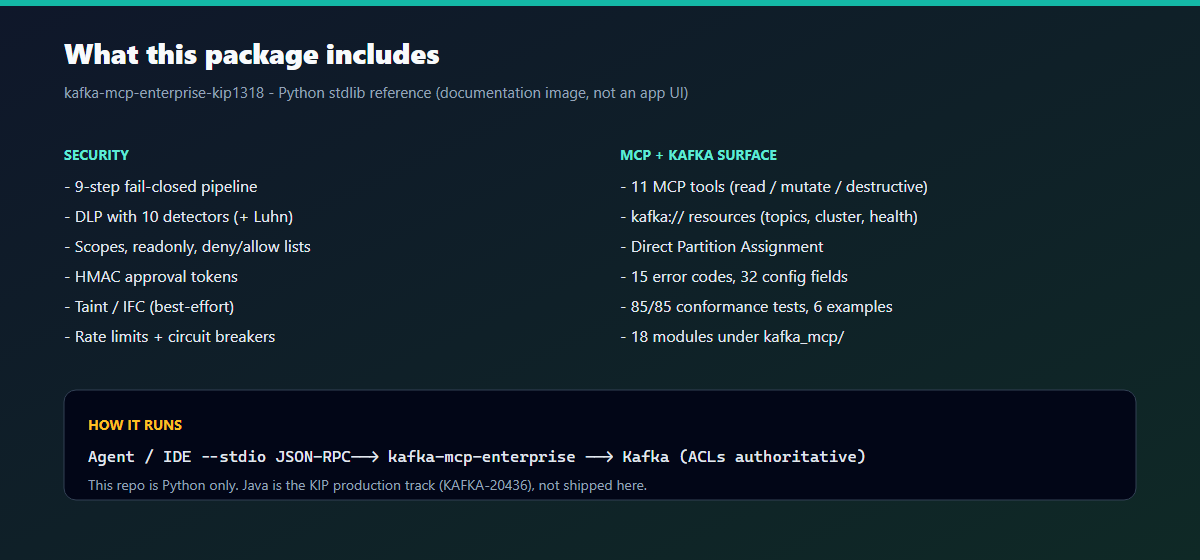
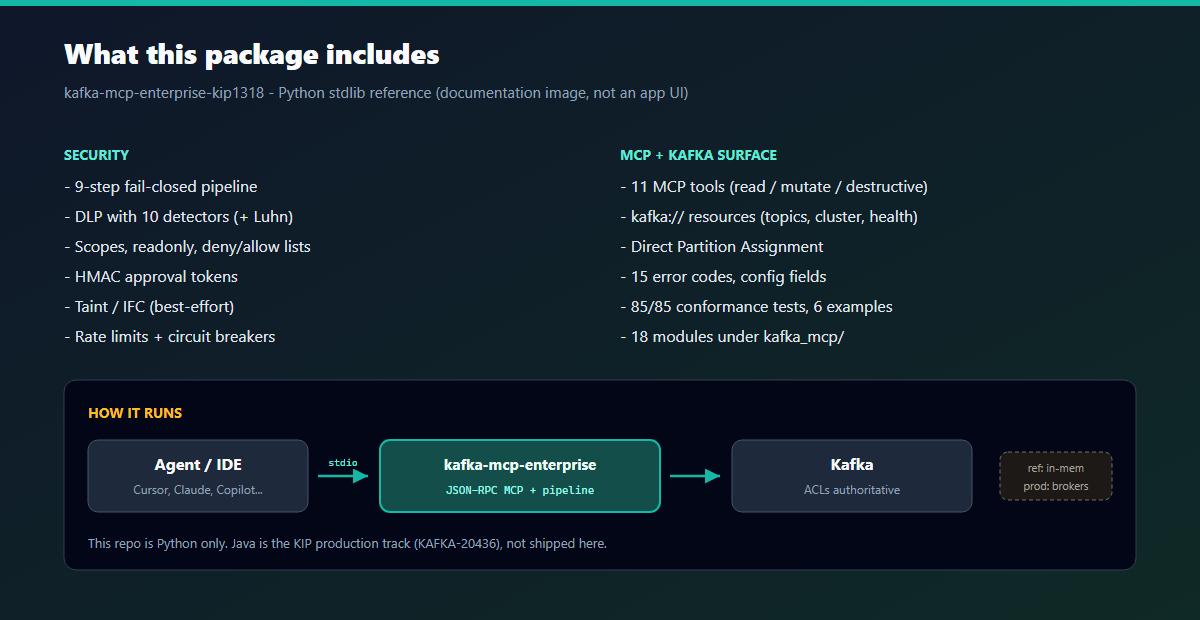
Align PyPI package name with Trusted Publisher as kafka-mcp-enterprise.
Matches the renamed GitHub repo and pending publisher so OIDC publish can create the project; also refresh README Mermaid diagrams and install links.

diff --git a/kafka_mcp/observability.py b/kafka_mcp/observability.py
@@ -6,7 +6,7 @@ OpenTelemetry in the official module.
 
 Python users who want OTel can install the optional extra::
 
-    pip install kafka-mcp-enterprise-kip1318[otel]
+    pip install kafka-mcp-enterprise[otel]
 
 Then pass a custom tracer/meter into your host, or wrap ``KafkaMcpServer.handle``.
 This module never imports OpenTelemetry unless it is installed.

diff --git a/README.md b/README.md
@@ -1,7 +1,7 @@
 # Kafka MCP Enterprise Server
 
-[![PyPI](https://img.shields.io/pypi/v/kafka-mcp-enterprise-kip1318.svg)](https://pypi.org/project/kafka-mcp-enterprise-kip1318/)
-[![Python](https://img.shields.io/pypi/pyversions/kafka-mcp-enterprise-kip1318.svg)](https://pypi.org/project/kafka-mcp-enterprise-kip1318/)
+[![PyPI](https://img.shields.io/pypi/v/kafka-mcp-enterprise.svg)](https://pypi.org/project/kafka-mcp-enterprise/)
+[![Python](https://img.shields.io/pypi/pyversions/kafka-mcp-enterprise.svg)](https://pypi.org/project/kafka-mcp-enterprise/)
 [![License](https://img.shields.io/badge/license-Apache%202.0-blue.svg)](LICENSE)
 
 ![Kafka MCP Enterprise — product image](doc/assets/kafka-mcp-banner.png)
@@ -11,16 +11,16 @@
 ### PyPI
 
 ```bash
-pip install kafka-mcp-enterprise-kip1318
+pip install kafka-mcp-enterprise
 echo {"jsonrpc":"2.0","id":1,"method":"tools/list"} | kafka-mcp-enterprise
 ```
 
 | | |
 |---|---|
-| **Package** | [`kafka-mcp-enterprise-kip1318`](https://pypi.org/project/kafka-mcp-enterprise-kip1318/) |
+| **Package** | [`kafka-mcp-enterprise`](https://pypi.org/project/kafka-mcp-enterprise/) |
 | **CLI** | `kafka-mcp-enterprise` |
 | **Import** | `import kafka_mcp` |
-| **Optional** | `pip install kafka-mcp-enterprise-kip1318[otel]` |
+| **Optional** | `pip install kafka-mcp-enterprise[otel]` |
 | **Publish** | Tag `v*` → [`.github/workflows/publish.yml`](.github/workflows/publish.yml) (Trusted Publishing / OIDC — see [doc/publishing.md](doc/publishing.md)) |
 
 ### Agents & skills (Cursor, Kiro, ChatGPT, Gemini, Copilot, …)
@@ -58,6 +58,30 @@ Broker **ACLs remain authoritative**. Guardrails here *complement* them; they ne
 ![Kafka MCP Enterprise — what’s included](doc/assets/kafka-mcp-features.png)
 
 *Documentation product image (not a web UI).* Checklist of what this Python stdio reference implements: fail-closed pipeline, DLP, 11 tools, `kafka://` resources, tests, and examples.
+
+### How it runs
+
+```mermaid
+flowchart LR
+  Agent["Agent / IDE"]
+  MCP["kafka-mcp-enterprise<br/>stdio JSON-RPC + pipeline"]
+  Kafka["Kafka<br/>ACLs authoritative"]
+  Agent -->|"MCP tools/call"| MCP
+  MCP -->|"Admin / Produce / Consume"| Kafka
+```
+
+**This repo:** Python stdlib reference (in-memory Kafka for tests). **KIP production track:** Java (`tools/mcp-server` / [KAFKA-20436](https://issues.apache.org/jira/browse/KAFKA-20436)), not shipped here.
+
+### Fail-closed pipeline (overview)
+
+```mermaid
+flowchart TB
+  A["1 Auth"] --> B["2 Deny-list"] --> C["3 Allow / readonly"]
+  C --> D["4 Scope"] --> E["5 Policy"] --> F["6 Taint / IFC"]
+  F --> G["7 Approval"] --> H["8 Rate limit"] --> I["9 Breaker execute"]
+```
+
+Full detail: [doc/security-controls.md](doc/security-controls.md) · architecture: [doc/architecture.md](doc/architecture.md).
 
 ---
 
@@ -241,7 +265,7 @@ Full defaults: [doc/configuration.md](doc/configuration.md).
 | Conformance suite | **85/85** checks (functional, security, guardrails, mechanisms, resources, stdio, audit hardening) |
 | Smoke + demo | `test_kafka_mcp.py` (16), `demo_end_to_end.py` (22 steps, all security codes) |
 | Examples | Six folders with real-world `data/` fixtures |
-| PyPI | `kafka-mcp-enterprise-kip1318` · CLI `kafka-mcp-enterprise` |
+| PyPI | `kafka-mcp-enterprise` · CLI `kafka-mcp-enterprise` |
 | Stdlib-only core | No hard third-party deps |
 | Optional OTel | `pip install …[otel]` — not required ([doc/observability.md](doc/observability.md)) |
 | AGENTS.md + skills | Cursor / Kiro / Copilot / ChatGPT / Gemini ([doc/agents-and-skills.md](doc/agents-and-skills.md)) |
@@ -274,7 +298,7 @@ See the **PyPI** section at the top for `pip install`, or [doc/publishing.md](do
 |----------|-------------|
 | **[doc/](doc/README.md)** | End-to-end guides: getting started, architecture, security, config, tools, errors, testing |
 | **[doc/kip-alignment.md](doc/kip-alignment.md)** | Feature matrix vs KIP-1318 — what is implemented vs intentional reference gaps |
-| **[doc/publishing.md](doc/publishing.md)** | PyPI package `kafka-mcp-enterprise-kip1318` |
+| **[doc/publishing.md](doc/publishing.md)** | PyPI package `kafka-mcp-enterprise` |
 | **[doc/observability.md](doc/observability.md)** | OpenTelemetry: optional, not required |
 | **[doc/agents-and-skills.md](doc/agents-and-skills.md)** | AGENTS.md + skills for all IDEs |
 | **[examples/](examples/README.md)** | Six folder-based scenarios (`run.py` + real-world `data/` fixtures) |
@@ -283,14 +307,19 @@ See the **PyPI** section at the top for `pip install`, or [doc/publishing.md](do
 
 ## Repository layout
 
-```text
-kafka_mcp/          # Reference server package (security pipeline + in-memory Kafka)
-tests/              # 85-check conformance suite
-doc/                # Public documentation
-examples/           # Production-shaped scenarios
-serve_stdio.py      # stdio entrypoint
-run_tests.py        # Master test runner
-demo_end_to_end.py  # 22-step control demo
+```mermaid
+flowchart TB
+  root["kafka-mcp-enterprise-server"]
+  pkg["kafka_mcp/<br/>reference server"]
+  tests["tests/<br/>85-check suite"]
+  docs["doc/<br/>guides + diagrams"]
+  ex["examples/<br/>6 scenarios"]
+  entry["serve_stdio.py · run_tests.py · demo_end_to_end.py"]
+  root --> pkg
+  root --> tests
+  root --> docs
+  root --> ex
+  root --> entry
 ```
 
 ---

diff --git a/doc/publishing.md b/doc/publishing.md
@@ -1,6 +1,6 @@
 # Publishing to PyPI (Trusted Publishing)
 
-Package name: **`kafka-mcp-enterprise-kip1318`**  
+Package name: **`kafka-mcp-enterprise`**  
 Import name: **`kafka_mcp`**  
 Console script: **`kafka-mcp-enterprise`**  
 Workflow: [`.github/workflows/publish.yml`](../.github/workflows/publish.yml) (same pattern as [mcp-test-harness](https://github.com/vaquarkhan/mcp-test-harness/blob/main/.github/workflows/publish.yml))
@@ -10,14 +10,14 @@ This is a **community reference** for [KIP-1318](https://cwiki.apache.org/conflu
 ## Install (after publish)
 
 ```bash
-pip install kafka-mcp-enterprise-kip1318
+pip install kafka-mcp-enterprise
 kafka-mcp-enterprise   # stdio MCP server
 ```
 
 Optional OpenTelemetry APIs (not required):
 
 ```bash
-pip install kafka-mcp-enterprise-kip1318[otel]
+pip install kafka-mcp-enterprise[otel]
 ```
 
 ---
@@ -32,7 +32,7 @@ Trusted Publishing is what `mcp-test-harness` uses: GitHub Actions gets a short-
 
 #### 1) GitHub Environment
 
-1. Open https://github.com/vaquarkhan/kafka-mcp-enterprise-server-kip-1318/settings/environments  
+1. Open https://github.com/vaquarkhan/kafka-mcp-enterprise-server/settings/environments  
 2. **New environment** → name it exactly: **`pypi`**  
 3. Optional: add required reviewers / wait timer for safer releases.
 
@@ -45,11 +45,11 @@ Trusted Publishing is what `mcp-test-harness` uses: GitHub Actions gets a short-
 
 | Field | Value |
 |-------|--------|
-| PyPI project name | `kafka-mcp-enterprise-kip1318` |
+| PyPI project name | `kafka-mcp-enterprise` |
 | Owner | `vaquarkhan` |
-| Repository name | `kafka-mcp-enterprise-server-kip-1318` |
+| Repository name | `kafka-mcp-enterprise-server` |
 | Workflow name | `publish.yml` |
-| Environment name | `pypi` |
+| Environment name | blank / **(any)** — or `pypi` if you pin it to the GitHub `pypi` environment |
 
 4. Save. Docs: https://docs.pypi.org/trusted-publishers/
 
@@ -76,25 +76,31 @@ git tag v0.1.0
 git push origin v0.1.0
 ```
 
-5. Watch **Actions → publish** — runs 72 tests, builds wheel/sdist, optional SBOM, then publishes via OIDC.  
-6. Verify: https://pypi.org/project/kafka-mcp-enterprise-kip1318/
+5. Watch **Actions → publish** — runs 85 tests, builds wheel/sdist, optional SBOM, then publishes via OIDC.  
+6. Verify: https://pypi.org/project/kafka-mcp-enterprise/
 
 Tag must match a version you intend to publish; PyPI rejects re-uploading the same version.
 
-### Troubleshooting: `400 Non-user identities cannot create new projects`
-
-Trusted Publishing worked, but the **pending publisher project name** did not match `pyproject.toml` `[project].name`.
-
-1. PyPI → Account → **Publishing** → edit/recreate the pending publisher.  
-2. **PyPI project name must be exactly:** `kafka-mcp-enterprise-kip1318` (hyphens, not underscores).  
-3. Re-run: Actions → **publish** → **Re-run failed jobs**, or:
+Or republish the current `main` tip without a new tag:
 
 ```bash
-gh workflow run publish.yml
-# or re-push the tag after deleting it locally/remotely (only if needed)
+gh workflow run publish.yml -f confirm=publish
 ```
 
-Do **not** change the package name in git unless you intentionally want a different PyPI name.
+### Troubleshooting: `400 Non-user identities cannot create new projects`
+
+Trusted Publishing worked, but the **pending publisher project name** did not match `pyproject.toml` `[project].name`, or the **GitHub repository** field did not match the renamed repo.
+
+Live Trusted Publisher must be:
+
+| Field | Value |
+|-------|--------|
+| PyPI project name | `kafka-mcp-enterprise` |
+| Repository | `vaquarkhan/kafka-mcp-enterprise-server` |
+| Workflow | `publish.yml` |
+
+1. PyPI → project (or Account → **Publishing**) → edit/recreate the publisher.  
+2. Re-run: Actions → **publish** → **Re-run failed jobs**, or `gh workflow run publish.yml -f confirm=publish`.
 
 ---
 

diff --git a/AGENTS.md b/AGENTS.md
@@ -5,7 +5,7 @@ Instructions for **any** coding agent (Cursor, Kiro, GitHub Copilot, ChatGPT/Cod
 ## What this repo is
 
 - **Python stdlib-only reference** for [KIP-1318](https://cwiki.apache.org/confluence/display/KAFKA/KIP-1318%3A+Model+Context+Protocol+%28MCP%29+Server+for+Apache+Kafka) / [KAFKA-20436](https://issues.apache.org/jira/browse/KAFKA-20436).
-- PyPI: `kafka-mcp-enterprise-kip1318` · CLI: `kafka-mcp-enterprise` · import: `kafka_mcp`.
+- PyPI: `kafka-mcp-enterprise` · CLI: `kafka-mcp-enterprise` · import: `kafka_mcp`.
 - **Not** the official Apache Kafka Java MCP server. Production language in the KIP is **Java**.
 - In-memory Kafka backend for conformance — not a live broker client.
 
@@ -21,14 +21,15 @@ Instructions for **any** coding agent (Cursor, Kiro, GitHub Copilot, ChatGPT/Cod
 
 ## Layout
 
-```text
-kafka_mcp/     # server package
-tests/         # 72 conformance checks
-examples/0N_*/ # one folder per scenario (run.py + data/)
-doc/           # public docs
-AGENTS.md      # this file
-.cursor/skills/# Cursor skills
-skills/        # portable skills (any IDE / ChatGPT / Kiro)
+```mermaid
+flowchart TB
+  root["repo root"]
+  root --> pkg["kafka_mcp/"]
+  root --> tests["tests/ · 85 checks"]
+  root --> ex["examples/0N_*/"]
+  root --> docs["doc/"]
+  root --> agents["AGENTS.md"]
+  root --> skills[".cursor/skills/ + skills/"]
 ```
 
 ## Commands agents should run
@@ -52,7 +53,7 @@ echo {"jsonrpc":"2.0","id":1,"method":"tools/list"} | python serve_stdio.py
 | KIP gaps | `doc/kip-alignment.md` |
 | Add example | New `examples/0N_name/{README.md,run.py,data/}` using `examples/_common.py` |
 | Change pipeline | Update `server.py` / `security.py` / `guardrails.py` + matching tests |
-| Publish | `doc/publishing.md` — package name `kafka-mcp-enterprise-kip1318` |
+| Publish | `doc/publishing.md` — package name `kafka-mcp-enterprise` |
 
 ## Coding standards
 

diff --git a/.cursor/skills/kafka-mcp-enterprise/SKILL.md b/.cursor/skills/kafka-mcp-enterprise/SKILL.md
@@ -1,7 +1,7 @@
 ---
 name: kafka-mcp-enterprise
 description: >-
-  Guides work on the kafka-mcp-enterprise-kip1318 reference server (KIP-1318 /
+  Guides work on the kafka-mcp-enterprise reference server (KIP-1318 /
   KAFKA-20436): run tests, stdio MCP, security pipeline, examples, and PyPI
   packaging. Use when the user mentions Kafka MCP, KIP-1318, kafka_mcp,
   tools/call, DLP, approval tokens, or this repository.
@@ -11,7 +11,7 @@ description: >-
 
 ## Quick facts
 
-- Package: `kafka-mcp-enterprise-kip1318` · CLI: `kafka-mcp-enterprise` · import: `kafka_mcp`
+- Package: `kafka-mcp-enterprise` · CLI: `kafka-mcp-enterprise` · import: `kafka_mcp`
 - Official KIP/Jira: KIP-1318 / KAFKA-20436 (Java is production target)
 - This repo: Python stdlib reference + 72 conformance tests
 

diff --git a/skills/kafka-mcp-enterprise/SKILL.md b/skills/kafka-mcp-enterprise/SKILL.md
@@ -1,7 +1,7 @@
 ---
 name: kafka-mcp-enterprise
 description: >-
-  Guides work on the kafka-mcp-enterprise-kip1318 reference server (KIP-1318 /
+  Guides work on the kafka-mcp-enterprise reference server (KIP-1318 /
   KAFKA-20436): run tests, stdio MCP, security pipeline, examples, and PyPI
   packaging. Use when the user mentions Kafka MCP, KIP-1318, kafka_mcp,
   tools/call, DLP, approval tokens, or this repository.
@@ -11,7 +11,7 @@ description: >-
 
 ## Quick facts
 
-- Package: `kafka-mcp-enterprise-kip1318` · CLI: `kafka-mcp-enterprise` · import: `kafka_mcp`
+- Package: `kafka-mcp-enterprise` · CLI: `kafka-mcp-enterprise` · import: `kafka_mcp`
 - Official KIP/Jira: KIP-1318 / KAFKA-20436 (Java is production target)
 - This repo: Python stdlib reference + 72 conformance tests
 

diff --git a/.kiro/steering/kafka-mcp.md b/.kiro/steering/kafka-mcp.md
@@ -7,7 +7,7 @@ inclusion: always
 Always follow the repository root **`AGENTS.md`**.
 
 - This is a **reference** implementation of KIP-1318 (Jira KAFKA-20436), not the official Java MCP server.
-- Install: `pip install kafka-mcp-enterprise-kip1318` · CLI: `kafka-mcp-enterprise`
+- Install: `pip install kafka-mcp-enterprise` · CLI: `kafka-mcp-enterprise`
 - Validate with `python run_tests.py` (must remain 85/85).
 - Use portable skills under `skills/*/SKILL.md` for workflows (enterprise, security-review, examples).
 - Do not add hard dependencies to `kafka_mcp/`; do not commit `internal/`.

diff --git a/doc/README.md b/doc/README.md
@@ -10,7 +10,7 @@ End-to-end guide for the Kafka MCP reference server.
 6. [Error codes](error-codes.md) — operator / agent error map  
 7. [Testing](testing.md) — conformance suite  
 8. [KIP-1318 alignment](kip-alignment.md) — feature matrix + intentional gaps  
-9. [Publishing to PyPI](publishing.md) — `kafka-mcp-enterprise-kip1318`  
+9. [Publishing to PyPI](publishing.md) — `kafka-mcp-enterprise`  
 10. [Observability / OpenTelemetry](observability.md) — optional, not required  
 11. [Agents & skills](agents-and-skills.md) — Cursor, Kiro, ChatGPT, Gemini, Copilot  
 

diff --git a/.github/copilot-instructions.md b/.github/copilot-instructions.md
@@ -4,6 +4,6 @@ Follow the repository root **`AGENTS.md`** for all work in this project.
 
 Key points:
 - KIP-1318 / KAFKA-20436 reference (Python); production target is Java
-- PyPI: `kafka-mcp-enterprise-kip1318`
+- PyPI: `kafka-mcp-enterprise`
 - Keep `kafka_mcp/` stdlib-only; run `python run_tests.py` (85/85) after changes
 - Skills: `skills/` (portable) and `.cursor/skills/` (Cursor)

diff --git a/doc/observability.md b/doc/observability.md
@@ -18,7 +18,7 @@
 ### Optional Python extra
 
 ```bash
-pip install kafka-mcp-enterprise-kip1318[otel]
+pip install kafka-mcp-enterprise[otel]
 ```
 
 ```python
